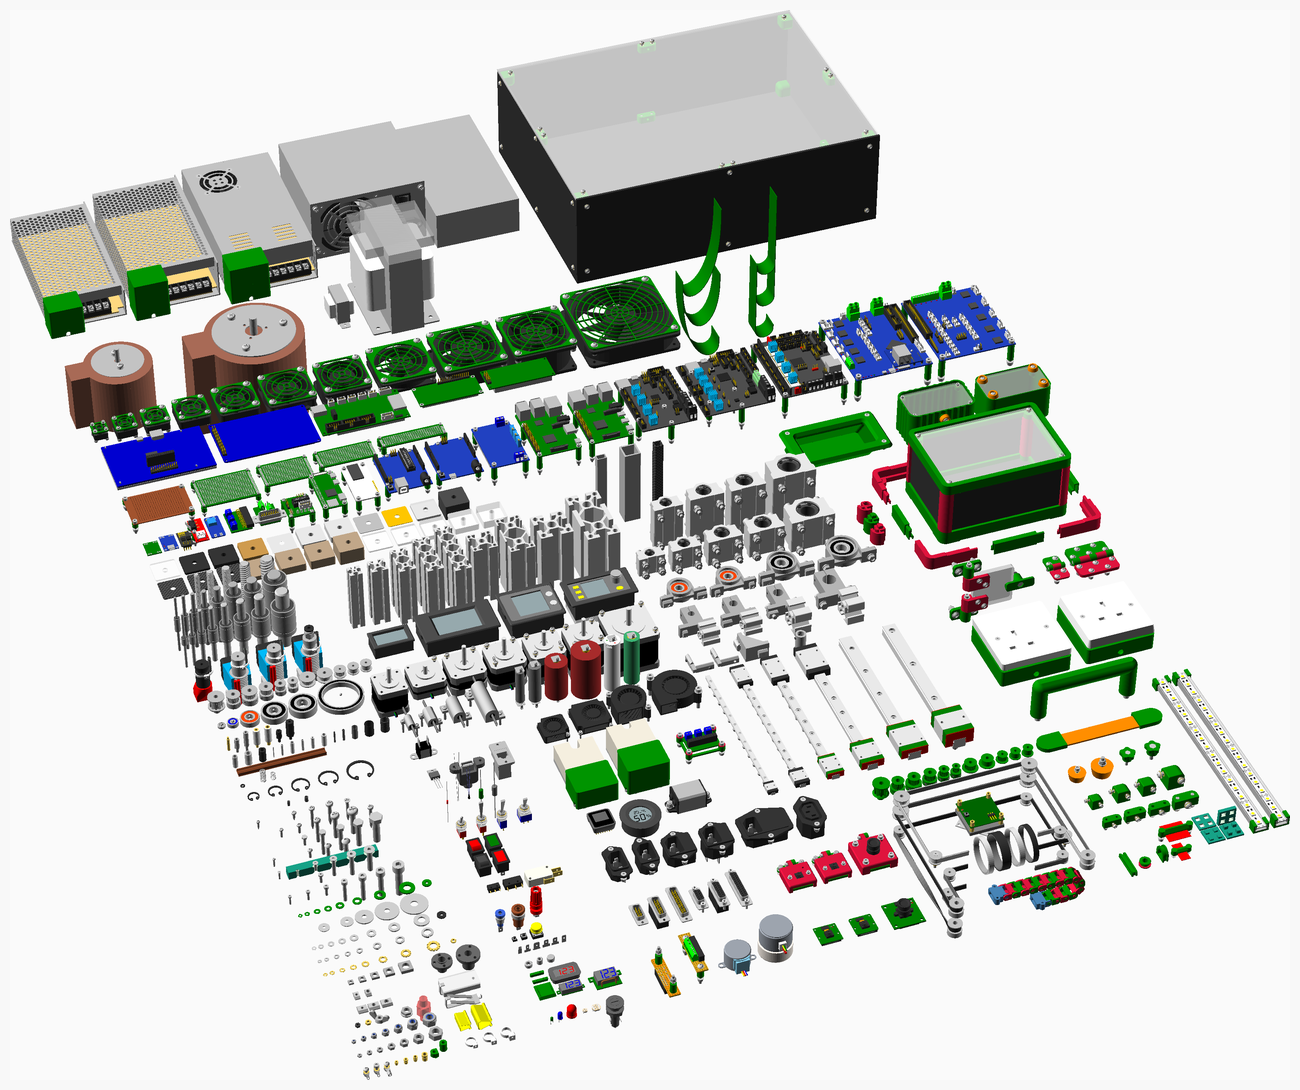
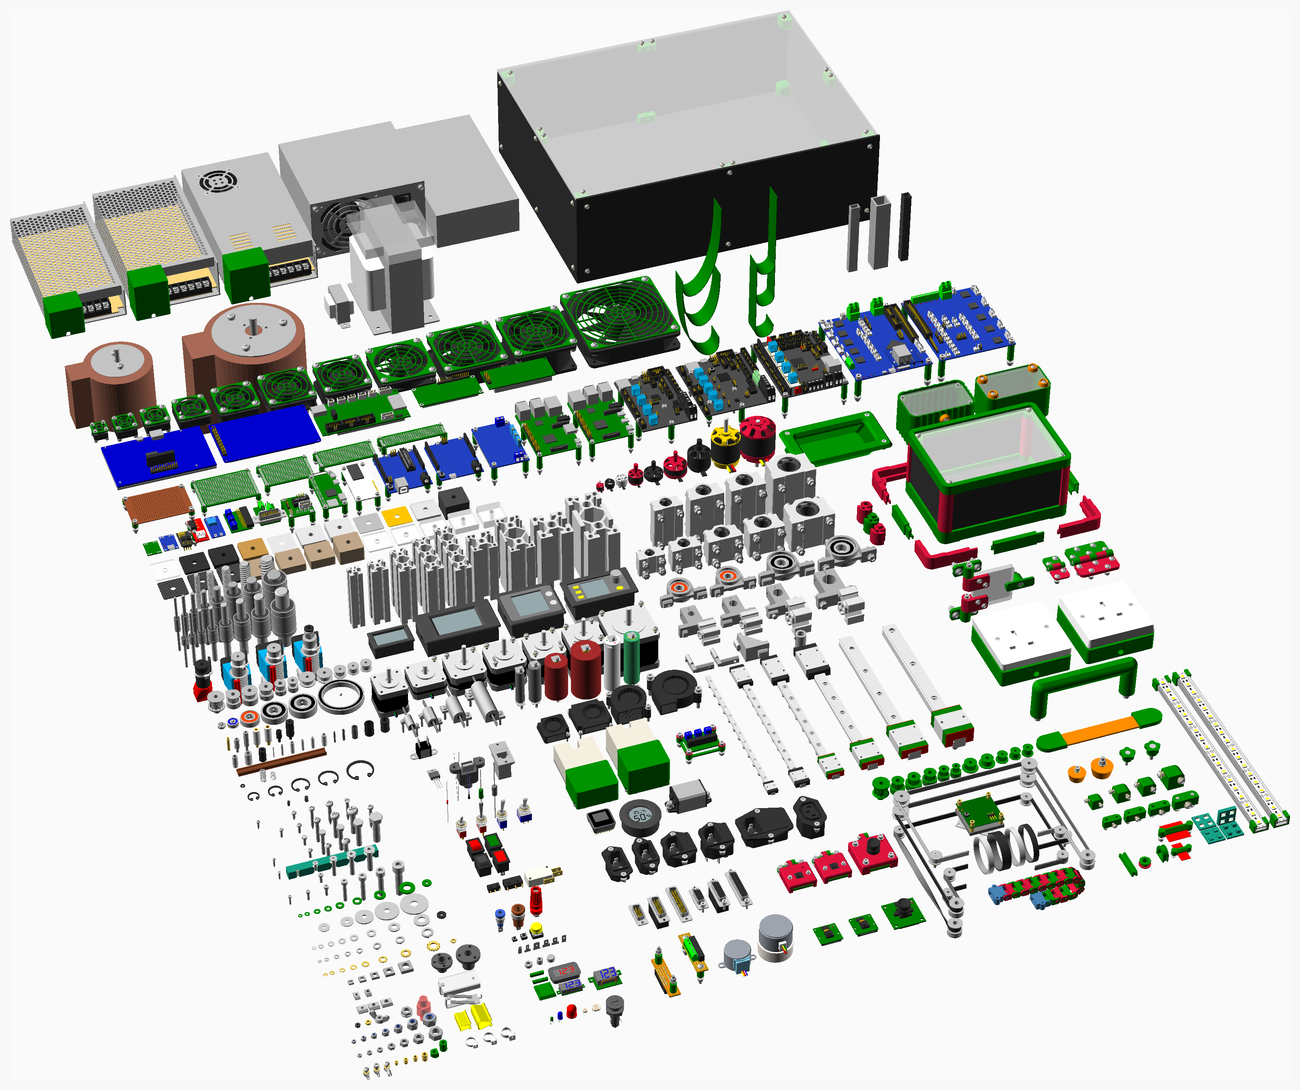
Updated images and readme.

Changed region(s): [[0.4615, 0.3743, 0.6154, 0.4991], [0.6462, 0.156, 0.7077, 0.2495]]

diff --git a/readme.md b/readme.md
@@ -22,30 +22,30 @@ A list of changes classified as breaking, additions or fixes is maintained in [C
 <table><tr>
 <th align="left"> Vitamins A-H </th><th align="left"> Vitamins I-Q </th><th align="left"> Vitamins R-Z </th><th align="left"> Printed </th><th align="left"> Utilities </th><th align="left"> Core Utilities </th></tr>
 <tr><td> <a href = "#Axials">Axials</a> </td><td> <a href = "#IECs">IECs</a> </td><td> <a href = "#Rails">Rails</a> </td><td> <a href = "#Box">Box</a> </td><td> <a href = "#Annotation">Annotation</a> </td><td> <a href = "#BOM">BOM</a> </td></tr>
-<tr><td> <a href = "#Ball_bearings">Ball_bearings</a> </td><td> <a href = "#Inserts">Inserts</a> </td><td> <a href = "#Ring_terminals">Ring_terminals</a> </td><td> <a href = "#Butt_box">Butt_box</a> </td><td> <a href = "#Bezier">Bezier</a> </td><td> <a href = "#Clip">Clip</a> </td></tr>
-<tr><td> <a href = "#Batteries">Batteries</a> </td><td> <a href = "#Jack">Jack</a> </td><td> <a href = "#Rockers">Rockers</a> </td><td> <a href = "#Cable_grommets">Cable_grommets</a> </td><td> <a href = "#Catenary">Catenary</a> </td><td> <a href = "#Global">Global</a> </td></tr>
-<tr><td> <a href = "#Bearing_blocks">Bearing_blocks</a> </td><td> <a href = "#LDRs">LDRs</a> </td><td> <a href = "#Rod">Rod</a> </td><td> <a href = "#Camera_housing">Camera_housing</a> </td><td> <a href = "#Core_xy">Core_xy</a> </td><td> <a href = "#Polyholes">Polyholes</a> </td></tr>
-<tr><td> <a href = "#Belts">Belts</a> </td><td> <a href = "#LED_meters">LED_meters</a> </td><td> <a href = "#SK_brackets">SK_brackets</a> </td><td> <a href = "#Carriers">Carriers</a> </td><td> <a href = "#Dogbones">Dogbones</a> </td><td> <a href = "#Rounded_rectangle">Rounded_rectangle</a> </td></tr>
-<tr><td> <a href = "#Blowers">Blowers</a> </td><td> <a href = "#LEDs">LEDs</a> </td><td> <a href = "#SMDs">SMDs</a> </td><td> <a href = "#Corner_block">Corner_block</a> </td><td> <a href = "#Fillet">Fillet</a> </td><td> <a href = "#Sphere">Sphere</a> </td></tr>
-<tr><td> <a href = "#Box_sections">Box_sections</a> </td><td> <a href = "#Leadnuts">Leadnuts</a> </td><td> <a href = "#SSRs">SSRs</a> </td><td> <a href = "#Door_hinge">Door_hinge</a> </td><td> <a href = "#Gears">Gears</a> </td><td> <a href = "#Teardrops">Teardrops</a> </td></tr>
-<tr><td> <a href = "#Bulldogs">Bulldogs</a> </td><td> <a href = "#Light_strips">Light_strips</a> </td><td> <a href = "#Screws">Screws</a> </td><td> <a href = "#Door_latch">Door_latch</a> </td><td> <a href = "#Hanging_hole">Hanging_hole</a> </td><td></td></tr>
-<tr><td> <a href = "#Buttons">Buttons</a> </td><td> <a href = "#Linear_bearings">Linear_bearings</a> </td><td> <a href = "#Sealing_strip">Sealing_strip</a> </td><td> <a href = "#Drag_chain">Drag_chain</a> </td><td> <a href = "#Horiholes">Horiholes</a> </td><td></td></tr>
-<tr><td> <a href = "#Cable_strips">Cable_strips</a> </td><td> <a href = "#Magnets">Magnets</a> </td><td> <a href = "#Shaft_couplings">Shaft_couplings</a> </td><td> <a href = "#Fan_guard">Fan_guard</a> </td><td> <a href = "#Layout">Layout</a> </td><td></td></tr>
-<tr><td> <a href = "#Cameras">Cameras</a> </td><td> <a href = "#Mains_sockets">Mains_sockets</a> </td><td> <a href = "#Sheets">Sheets</a> </td><td> <a href = "#Fixing_block">Fixing_block</a> </td><td> <a href = "#Maths">Maths</a> </td><td></td></tr>
-<tr><td> <a href = "#Circlips">Circlips</a> </td><td> <a href = "#Microswitches">Microswitches</a> </td><td> <a href = "#Spades">Spades</a> </td><td> <a href = "#Flat_hinge">Flat_hinge</a> </td><td> <a href = "#Offset">Offset</a> </td><td></td></tr>
-<tr><td> <a href = "#Components">Components</a> </td><td> <a href = "#Microview">Microview</a> </td><td> <a href = "#Spools">Spools</a> </td><td> <a href = "#Foot">Foot</a> </td><td> <a href = "#Quadrant">Quadrant</a> </td><td></td></tr>
-<tr><td> <a href = "#DIP">DIP</a> </td><td> <a href = "#Modules">Modules</a> </td><td> <a href = "#Springs">Springs</a> </td><td> <a href = "#Handle">Handle</a> </td><td> <a href = "#Round">Round</a> </td><td></td></tr>
-<tr><td> <a href = "#D_connectors">D_connectors</a> </td><td> <a href = "#Nuts">Nuts</a> </td><td> <a href = "#Stepper_motors">Stepper_motors</a> </td><td> <a href = "#PCB_mount">PCB_mount</a> </td><td> <a href = "#Rounded_cylinder">Rounded_cylinder</a> </td><td></td></tr>
-<tr><td> <a href = "#Displays">Displays</a> </td><td> <a href = "#O_ring">O_ring</a> </td><td> <a href = "#Swiss_clips">Swiss_clips</a> </td><td> <a href = "#PSU_shroud">PSU_shroud</a> </td><td> <a href = "#Rounded_polygon">Rounded_polygon</a> </td><td></td></tr>
-<tr><td> <a href = "#Extrusion_brackets">Extrusion_brackets</a> </td><td> <a href = "#Opengrab">Opengrab</a> </td><td> <a href = "#Toggles">Toggles</a> </td><td> <a href = "#Pocket_handle">Pocket_handle</a> </td><td> <a href = "#Rounded_triangle">Rounded_triangle</a> </td><td></td></tr>
-<tr><td> <a href = "#Extrusions">Extrusions</a> </td><td> <a href = "#PCB">PCB</a> </td><td> <a href = "#Transformers">Transformers</a> </td><td> <a href = "#Press_fit">Press_fit</a> </td><td> <a href = "#Sector">Sector</a> </td><td></td></tr>
-<tr><td> <a href = "#Fans">Fans</a> </td><td> <a href = "#PCBs">PCBs</a> </td><td> <a href = "#Tubings">Tubings</a> </td><td> <a href = "#Printed_box">Printed_box</a> </td><td> <a href = "#Sweep">Sweep</a> </td><td></td></tr>
-<tr><td> <a href = "#Fuseholder">Fuseholder</a> </td><td> <a href = "#PSUs">PSUs</a> </td><td> <a href = "#Variacs">Variacs</a> </td><td> <a href = "#Printed_pulleys">Printed_pulleys</a> </td><td> <a href = "#Thread">Thread</a> </td><td></td></tr>
-<tr><td> <a href = "#Geared_steppers">Geared_steppers</a> </td><td> <a href = "#Panel_meters">Panel_meters</a> </td><td> <a href = "#Veroboard">Veroboard</a> </td><td> <a href = "#Ribbon_clamp">Ribbon_clamp</a> </td><td> <a href = "#Tube">Tube</a> </td><td></td></tr>
-<tr><td> <a href = "#Green_terminals">Green_terminals</a> </td><td> <a href = "#Pillars">Pillars</a> </td><td> <a href = "#Washers">Washers</a> </td><td> <a href = "#SSR_shroud">SSR_shroud</a> </td><td></td><td></td></tr>
-<tr><td> <a href = "#Hot_ends">Hot_ends</a> </td><td> <a href = "#Pillow_blocks">Pillow_blocks</a> </td><td> <a href = "#Wire">Wire</a> </td><td> <a href = "#Screw_knob">Screw_knob</a> </td><td></td><td></td></tr>
-<tr><td> <a href = "#Hygrometer">Hygrometer</a> </td><td> <a href = "#Pin_headers">Pin_headers</a> </td><td> <a href = "#Zipties">Zipties</a> </td><td> <a href = "#Socket_box">Socket_box</a> </td><td></td><td></td></tr>
-<tr><td></td><td> <a href = "#Pulleys">Pulleys</a> </td><td></td><td> <a href = "#Strap_handle">Strap_handle</a> </td><td></td><td></td></tr>
+<tr><td> <a href = "#BLDC_motors">BLDC_motors</a> </td><td> <a href = "#Inserts">Inserts</a> </td><td> <a href = "#Ring_terminals">Ring_terminals</a> </td><td> <a href = "#Butt_box">Butt_box</a> </td><td> <a href = "#Bezier">Bezier</a> </td><td> <a href = "#Clip">Clip</a> </td></tr>
+<tr><td> <a href = "#Ball_bearings">Ball_bearings</a> </td><td> <a href = "#Jack">Jack</a> </td><td> <a href = "#Rockers">Rockers</a> </td><td> <a href = "#Cable_grommets">Cable_grommets</a> </td><td> <a href = "#Catenary">Catenary</a> </td><td> <a href = "#Global">Global</a> </td></tr>
+<tr><td> <a href = "#Batteries">Batteries</a> </td><td> <a href = "#LDRs">LDRs</a> </td><td> <a href = "#Rod">Rod</a> </td><td> <a href = "#Camera_housing">Camera_housing</a> </td><td> <a href = "#Core_xy">Core_xy</a> </td><td> <a href = "#Polyholes">Polyholes</a> </td></tr>
+<tr><td> <a href = "#Bearing_blocks">Bearing_blocks</a> </td><td> <a href = "#LED_meters">LED_meters</a> </td><td> <a href = "#SK_brackets">SK_brackets</a> </td><td> <a href = "#Carriers">Carriers</a> </td><td> <a href = "#Dogbones">Dogbones</a> </td><td> <a href = "#Rounded_rectangle">Rounded_rectangle</a> </td></tr>
+<tr><td> <a href = "#Belts">Belts</a> </td><td> <a href = "#LEDs">LEDs</a> </td><td> <a href = "#SMDs">SMDs</a> </td><td> <a href = "#Corner_block">Corner_block</a> </td><td> <a href = "#Fillet">Fillet</a> </td><td> <a href = "#Sphere">Sphere</a> </td></tr>
+<tr><td> <a href = "#Blowers">Blowers</a> </td><td> <a href = "#Leadnuts">Leadnuts</a> </td><td> <a href = "#SSRs">SSRs</a> </td><td> <a href = "#Door_hinge">Door_hinge</a> </td><td> <a href = "#Gears">Gears</a> </td><td> <a href = "#Teardrops">Teardrops</a> </td></tr>
+<tr><td> <a href = "#Box_sections">Box_sections</a> </td><td> <a href = "#Light_strips">Light_strips</a> </td><td> <a href = "#Screws">Screws</a> </td><td> <a href = "#Door_latch">Door_latch</a> </td><td> <a href = "#Hanging_hole">Hanging_hole</a> </td><td></td></tr>
+<tr><td> <a href = "#Bulldogs">Bulldogs</a> </td><td> <a href = "#Linear_bearings">Linear_bearings</a> </td><td> <a href = "#Sealing_strip">Sealing_strip</a> </td><td> <a href = "#Drag_chain">Drag_chain</a> </td><td> <a href = "#Horiholes">Horiholes</a> </td><td></td></tr>
+<tr><td> <a href = "#Buttons">Buttons</a> </td><td> <a href = "#Magnets">Magnets</a> </td><td> <a href = "#Shaft_couplings">Shaft_couplings</a> </td><td> <a href = "#Fan_guard">Fan_guard</a> </td><td> <a href = "#Layout">Layout</a> </td><td></td></tr>
+<tr><td> <a href = "#Cable_strips">Cable_strips</a> </td><td> <a href = "#Mains_sockets">Mains_sockets</a> </td><td> <a href = "#Sheets">Sheets</a> </td><td> <a href = "#Fixing_block">Fixing_block</a> </td><td> <a href = "#Maths">Maths</a> </td><td></td></tr>
+<tr><td> <a href = "#Cameras">Cameras</a> </td><td> <a href = "#Microswitches">Microswitches</a> </td><td> <a href = "#Spades">Spades</a> </td><td> <a href = "#Flat_hinge">Flat_hinge</a> </td><td> <a href = "#Offset">Offset</a> </td><td></td></tr>
+<tr><td> <a href = "#Circlips">Circlips</a> </td><td> <a href = "#Microview">Microview</a> </td><td> <a href = "#Spools">Spools</a> </td><td> <a href = "#Foot">Foot</a> </td><td> <a href = "#Quadrant">Quadrant</a> </td><td></td></tr>
+<tr><td> <a href = "#Components">Components</a> </td><td> <a href = "#Modules">Modules</a> </td><td> <a href = "#Springs">Springs</a> </td><td> <a href = "#Handle">Handle</a> </td><td> <a href = "#Round">Round</a> </td><td></td></tr>
+<tr><td> <a href = "#DIP">DIP</a> </td><td> <a href = "#Nuts">Nuts</a> </td><td> <a href = "#Stepper_motors">Stepper_motors</a> </td><td> <a href = "#PCB_mount">PCB_mount</a> </td><td> <a href = "#Rounded_cylinder">Rounded_cylinder</a> </td><td></td></tr>
+<tr><td> <a href = "#D_connectors">D_connectors</a> </td><td> <a href = "#O_ring">O_ring</a> </td><td> <a href = "#Swiss_clips">Swiss_clips</a> </td><td> <a href = "#PSU_shroud">PSU_shroud</a> </td><td> <a href = "#Rounded_polygon">Rounded_polygon</a> </td><td></td></tr>
+<tr><td> <a href = "#Displays">Displays</a> </td><td> <a href = "#Opengrab">Opengrab</a> </td><td> <a href = "#Toggles">Toggles</a> </td><td> <a href = "#Pocket_handle">Pocket_handle</a> </td><td> <a href = "#Rounded_triangle">Rounded_triangle</a> </td><td></td></tr>
+<tr><td> <a href = "#Extrusion_brackets">Extrusion_brackets</a> </td><td> <a href = "#PCB">PCB</a> </td><td> <a href = "#Transformers">Transformers</a> </td><td> <a href = "#Press_fit">Press_fit</a> </td><td> <a href = "#Sector">Sector</a> </td><td></td></tr>
+<tr><td> <a href = "#Extrusions">Extrusions</a> </td><td> <a href = "#PCBs">PCBs</a> </td><td> <a href = "#Tubings">Tubings</a> </td><td> <a href = "#Printed_box">Printed_box</a> </td><td> <a href = "#Sweep">Sweep</a> </td><td></td></tr>
+<tr><td> <a href = "#Fans">Fans</a> </td><td> <a href = "#PSUs">PSUs</a> </td><td> <a href = "#Variacs">Variacs</a> </td><td> <a href = "#Printed_pulleys">Printed_pulleys</a> </td><td> <a href = "#Thread">Thread</a> </td><td></td></tr>
+<tr><td> <a href = "#Fuseholder">Fuseholder</a> </td><td> <a href = "#Panel_meters">Panel_meters</a> </td><td> <a href = "#Veroboard">Veroboard</a> </td><td> <a href = "#Ribbon_clamp">Ribbon_clamp</a> </td><td> <a href = "#Tube">Tube</a> </td><td></td></tr>
+<tr><td> <a href = "#Geared_steppers">Geared_steppers</a> </td><td> <a href = "#Pillars">Pillars</a> </td><td> <a href = "#Washers">Washers</a> </td><td> <a href = "#SSR_shroud">SSR_shroud</a> </td><td></td><td></td></tr>
+<tr><td> <a href = "#Green_terminals">Green_terminals</a> </td><td> <a href = "#Pillow_blocks">Pillow_blocks</a> </td><td> <a href = "#Wire">Wire</a> </td><td> <a href = "#Screw_knob">Screw_knob</a> </td><td></td><td></td></tr>
+<tr><td> <a href = "#Hot_ends">Hot_ends</a> </td><td> <a href = "#Pin_headers">Pin_headers</a> </td><td> <a href = "#Zipties">Zipties</a> </td><td> <a href = "#Socket_box">Socket_box</a> </td><td></td><td></td></tr>
+<tr><td> <a href = "#Hygrometer">Hygrometer</a> </td><td> <a href = "#Pulleys">Pulleys</a> </td><td></td><td> <a href = "#Strap_handle">Strap_handle</a> </td><td></td><td></td></tr>
 </table>
 
 ---
@@ -332,6 +332,73 @@ Individual teeth are not drawn, instead they are represented by a lighter colour
 |   3 | `pulley(GT2x20ob_pulley)` |  Pulley GT2OB 20 teeth |
 |   2 | `screw(M3_cs_cap_screw, 20)` |  Screw M3 cs cap x 20mm |
 |   6 | `screw(M3_grub_screw, 6)` |  Screw M3 grub x  6mm |
+
+
+<a href="#top">Top</a>
+
+---
+<a name="BLDC_motors"></a>
+## BLDC_motors
+ Brushless DC electric motor
+
+[vitamins/bldc_motors.scad](vitamins/bldc_motors.scad) Object definitions.
+
+[vitamins/bldc_motor.scad](vitamins/bldc_motor.scad) Implementation.
+
+[tests/BLDC_motors.scad](tests/BLDC_motors.scad) Code for this example.
+
+### Properties
+| Function | Description |
+|:--- |:--- |
+| `BLDC_base_diameter(type)` | Base diameter |
+| `BLDC_base_height_1(type)` | Base height 1 |
+| `BLDC_base_height_2(type)` | Base height 2 |
+| `BLDC_base_hole_diameter(type)` | Base hole diameter |
+| `BLDC_base_holes(type)` | Base holes |
+| `BLDC_base_open(type)` | Base open |
+| `BLDC_bell_diameter(type)` | Bell diameter |
+| `BLDC_bell_height_1(type)` | Bell height 1 |
+| `BLDC_bell_height_2(type)` | Bell height 2 |
+| `BLDC_bell_hole_diameter(type)` | Bell hole diameter |
+| `BLDC_bell_holes(type)` | Bell holes |
+| `BLDC_bell_spokes(type)` | Bell spoke count |
+| `BLDC_body_colour(type)` | Body colour |
+| `BLDC_boss_diameter(type)` | Boss diameter |
+| `BLDC_boss_height(type)` | Boss height |
+| `BLDC_diameter(type)` | Diameter of motor |
+| `BLDC_height(type)` | Height of motor including boss, if any, but excluding prop shaft |
+| `BLDC_prop_shaft_diameter(type)` | Diameter of unthreaded portion of prop shaft |
+| `BLDC_prop_shaft_length(type)` | Prop shaft length, including threaded section |
+| `BLDC_prop_shaft_thread_diameter(type)` | Diameter of threaded section of prop shaft |
+| `BLDC_prop_shaft_thread_length(type)` | Length of threaded section of prop shaft |
+| `BLDC_shaft_diameter(type)` | shaft diameter |
+| `BLDC_shaft_length(type)` | Total shaft length |
+| `BLDC_shaft_offset(type)` | shaft offset from base |
+| `BLDC_side_colour(type)` | Side colour |
+| `BLDC_wire_diameter(type)` | Wire diameter |
+
+### Modules
+| Module | Description |
+|:--- |:--- |
+| `BLDC(type)` | Draw specified BLDC motor |
+| `BLDC_base_screw_positions(type, n = 4)` | Positions children at the base screw holes |
+| `BLDC_bell_screw_positions(type, n = 4)` | Positions children at the bell screw holes |
+| `BLDC_screw_positions(holes, n = 4)` | Screw positions utility function |
+
+![bldc_motors](tests/png/bldc_motors.png)
+
+### Vitamins
+| Qty | Module call | BOM entry |
+| ---:|:--- |:---|
+|   1 | `BLDC(BLDC0603)` |  Brushless DC motor BLDC0603 |
+|   1 | `BLDC(BLDC0802)` |  Brushless DC motor BLDC0802 |
+|   1 | `BLDC(BLDC1105)` |  Brushless DC motor BLDC1105 |
+|   1 | `BLDC(BLDC1306)` |  Brushless DC motor BLDC1306 |
+|   1 | `BLDC(BLDC1804)` |  Brushless DC motor BLDC1804 |
+|   1 | `BLDC(BLDC2205)` |  Brushless DC motor BLDC2205 |
+|   1 | `BLDC(BLDC2212)` |  Brushless DC motor BLDC2212 |
+|   1 | `BLDC(BLDC3548)` |  Brushless DC motor BLDC3548 |
+|   1 | `BLDC(BLDC4250)` |  Brushless DC motor BLDC4250 |
 
 
 <a href="#top">Top</a>
